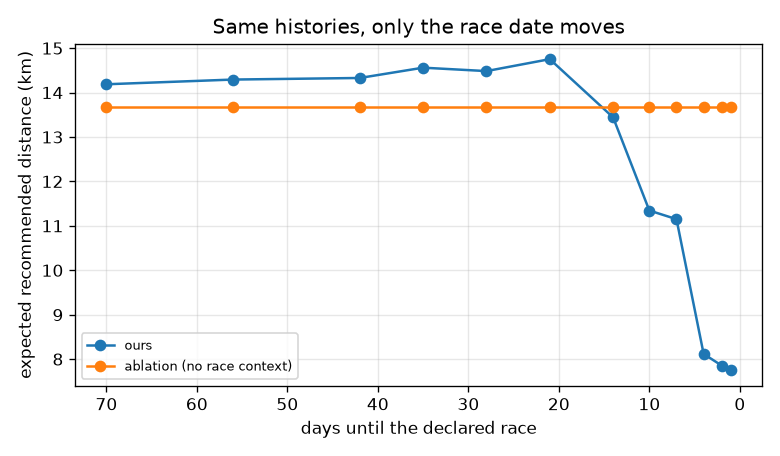
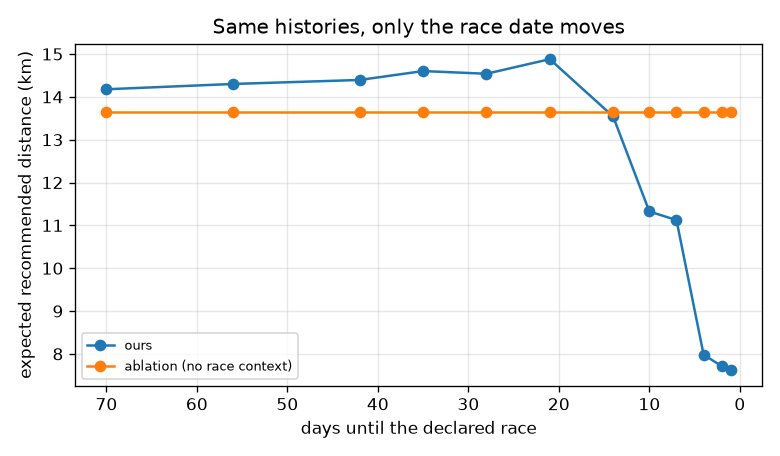
fix: address review on #7 and #8 (calendar gaps, export recomputation, report)
- load_grid rejects a calendar with a missing day, even when every athlete
  shares the gap (array positions are used as days).
- validate recomputes the pace reference, intensity, session type and race
  calendar from km, minutes and dates, and checks the shared pace rule.
  The weekly table it used to check no longer exists since the temporal
  re-scope.
- annotate_sessions and plausible_pace are shared helpers; the session
  catalogue's representative distances live in data.py, so the report no
  longer imports marathon.serving from the next PR.
- The race-date sweep draws one target per runner over 2,000 distinct
  runners and reports that count. Results regenerated; regression tests
  added for all of the above.

diff --git a/marathon/report.py b/marathon/report.py
@@ -12,10 +12,10 @@ import numpy as np
 import pandas as pd
 import torch
 
-from marathon.data import NUM_ITEMS, describe_item
+from marathon.data import DISTANCE_POINTS, INTENSITY_EDGES, NUM_ITEMS, describe_item
 from marathon.evaluate import PHASES, Baselines, per_target_metrics, target_ranks
 from marathon.model import ContextCrossAttentionRecommender
-from marathon.sequences import item_attributes, load_store
+from marathon.sequences import item_attributes, load_store, race_bucket
 from marathon.train import baseline_ranks, model_scores
 
 NAMES = {"full": "Context-aware Transformer (ours)", "no_race_context": "Ablation: same model without race context",
@@ -67,17 +67,25 @@ def plot_curves(reports, path):
 SWEEP_DAYS = [70, 56, 42, 35, 28, 21, 14, 10, 7, 4, 2, 1]
 
 
+def one_target_per_runner(store, targets, rng, sample):
+    """One random target per runner, for `sample` distinct runners, so every runner weighs the same."""
+    athletes = store.sessions["athlete"].to_numpy()[targets]
+    order = rng.permutation(len(targets))
+    _, first = np.unique(athletes[order], return_index=True)
+    per_runner = targets[order[first]]
+    return np.sort(rng.choice(per_runner, min(sample, len(per_runner)), replace=False))
+
+
 def race_date_sweep(models, store, targets, rng, sample=2000):
     """Counterfactual: keep each runner's history, move only the declared race date.
 
     For every target, the race is placed `days` after the target day and the race-calendar
     buckets of the history are shifted consistently. The output is the expected distance of
     the recommended session (softmax-weighted over the 66 types). A model without race context
-    must give the same value for every `days`.
+    must give the same value for every `days`. Each runner counts once: one random eligible
+    target is drawn per runner, then `sample` distinct runners are drawn.
     """
-    from marathon.sequences import race_bucket
-    from marathon.serving import DISTANCE_POINTS, INTENSITY_EDGES
-    chosen = np.sort(rng.choice(targets, min(sample, len(targets)), replace=False))
+    chosen = one_target_per_runner(store, targets, rng, sample)
     batch = store.batch(chosen)
     dates = store.sessions["date"].to_numpy("datetime64[D]")
     offsets = np.arange(-batch["items"].shape[1], 0)
@@ -96,6 +104,7 @@ def race_date_sweep(models, store, targets, rng, sample=2000):
             probabilities = torch.softmax(logits, dim=1).numpy()
             values.append(float((probabilities * km[None, :]).sum(axis=1).mean()))
         result[name] = dict(zip(SWEEP_DAYS, values))
+    result["runners"] = int(len(np.unique(store.sessions["athlete"].to_numpy()[chosen])))
     return result
 
 
@@ -105,6 +114,8 @@ def plot_sweep(sweep, path):
     import matplotlib.pyplot as plt
     figure, axis = plt.subplots(figsize=(6.5, 3.8))
     for name, values in sweep.items():
+        if name == "runners":
+            continue
         axis.plot(list(values), list(values.values()), marker="o", label=name)
     axis.invert_xaxis()
     axis.set(title="Same histories, only the race date moves", xlabel="days until the declared race",
@@ -231,7 +242,8 @@ def main():
                     for name in order], ["Method", "Coverage@10", "Mean popularity rank@10"])
     ours, ablation = sweep["ours"], sweep["ablation (no race context)"]
     lines += ["", "## Innovation check: moving only the race date", "",
-              f"2,000 test runners preparing a race (2 to 20 weeks out). Their histories are kept; only the declared race "
+              f"{sweep['runners']:,} distinct test runners preparing a race (2 to 20 weeks out), one session each. "
+              "Their histories are kept; only the declared race "
               f"date moves. Expected distance of the recommended session: {ours[70]:.1f} km with the race 70 days away, "
               f"{ours[14]:.1f} km at 14 days, {ours[2]:.1f} km at 2 days. The ablation stays at {ablation[70]:.1f} km "
               "whatever the date, as it must. The model learned to taper from data; no rule encodes it.", "",

diff --git a/marathon/data.py b/marathon/data.py
@@ -37,6 +37,11 @@ INTENSITY_LABELS = ["much faster", "faster", "slightly faster", "usual", "slight
 REFERENCE_DAYS = 28
 REFERENCE_MIN_RUNS = 3
 NUM_ITEMS = (len(DISTANCE_EDGES) + 1) * (len(INTENSITY_EDGES) + 1)
+# Representative distance (km) and pace ratio of each band, used to turn a session type into a
+# concrete session and to compute expected distances in the report.
+DISTANCE_POINTS = [3.0, 6.5, 9.0, 11.0, 13.5, 16.5, 19.5, 23.0, 27.5, 32.0, 37.0]
+INTENSITY_POINTS = [0.87, 0.925, 0.97, 1.01, 1.055, 1.11]
+assert len(DISTANCE_POINTS) == len(DISTANCE_EDGES) + 1 and len(INTENSITY_POINTS) == len(INTENSITY_EDGES) + 1
 
 
 def item_id(km, intensity):
@@ -69,10 +74,27 @@ def load_grid(path):
         raise ValueError("Expected exactly one row per athlete per day")
     if not (frame["datetime"].to_numpy().reshape(len(athletes), -1) == dates).all():
         raise ValueError("Every athlete must cover the same sorted calendar")
+    # Array positions are used as calendar days, so a date missing for everyone must fail too.
+    steps = np.diff(dates.astype("datetime64[D]")).astype(int)
+    if len(dates) and not (steps == 1).all():
+        raise ValueError("The calendar must contain consecutive days without gaps")
     distance = frame["distance"].to_numpy(np.float64).reshape(len(athletes), -1)
     duration = frame["duration"].to_numpy(np.float64).reshape(len(athletes), -1)
     meta = frame.iloc[::len(dates)][["athlete", "gender", "age_group", "country", "major"]].reset_index(drop=True)
     return meta, pd.DatetimeIndex(dates), distance, duration
+
+
+def plausible_pace(km, minutes):
+    """True where km and minutes are finite, positive and their pace lies in PACE_RANGE.
+
+    The single quality rule for a running day, shared by the training pipeline and the API.
+    """
+    km = np.asarray(km, dtype=float)
+    minutes = np.asarray(minutes, dtype=float)
+    valid = np.isfinite(km) & np.isfinite(minutes) & (km > 0) & (minutes > 0)
+    with np.errstate(divide="ignore", invalid="ignore"):
+        pace = np.where(valid, minutes / np.where(valid, km, 1), np.nan)
+    return valid & (pace >= PACE_RANGE[0]) & (pace <= PACE_RANGE[1])
 
 
 def clean_days(distance, duration):
@@ -80,9 +102,7 @@ def clean_days(distance, duration):
     distance, duration = distance.copy(), duration.copy()
     bad = ~np.isfinite(distance) | ~np.isfinite(duration) | (distance < 0) | (duration < 0)
     moving = (distance > 0) & ~bad
-    with np.errstate(divide="ignore", invalid="ignore"):
-        pace = np.where(moving, duration / np.where(moving, distance, 1), np.nan)
-    bad |= moving & ~((pace >= PACE_RANGE[0]) & (pace <= PACE_RANGE[1]))
+    bad |= moving & ~plausible_pace(distance, duration)
     bad |= (distance == 0) & (duration > 0)
     distance[bad] = 0
     duration[bad] = 0
@@ -116,7 +136,18 @@ def build_sessions(meta, dates, distance, duration, athletes):
     runner, day = np.nonzero(distance[rows] >= MIN_SESSION_KM)
     sessions = pd.DataFrame({"athlete": meta["athlete"].to_numpy()[rows][runner], "date": dates[day],
                              "km": distance[rows][runner, day], "minutes": duration[rows][runner, day]})
+    return annotate_sessions(sessions)
+
+
+def annotate_sessions(sessions):
+    """Add pace, the causal 28-day pace reference, intensity and session type.
+
+    Used to build the training data, to re-check the export in validate.py and to encode
+    histories in the API, so all three agree. Expects at most one session per runner and day,
+    each with at least MIN_SESSION_KM and a plausible pace.
+    """
     sessions = sessions.sort_values(["athlete", "date"], kind="stable").reset_index(drop=True)
+    sessions["date"] = pd.to_datetime(sessions["date"])
     sessions["pace"] = sessions["minutes"] / sessions["km"]
     # closed="left" excludes the session itself: the reference uses strictly earlier days only.
     reference = (sessions.set_index("date").groupby("athlete")["pace"]

diff --git a/tests/test_marathon_data.py b/tests/test_marathon_data.py
@@ -5,13 +5,15 @@ from pathlib import Path
 import numpy as np
 import pandas as pd
 
-from marathon.data import NUM_ITEMS, clean_days, describe_item, item_id, prepare
+from marathon.data import NUM_ITEMS, clean_days, describe_item, item_id, load_grid, plausible_pace, prepare
 from marathon.validate import validate
 
 
-def synthetic_grid(path):
+def synthetic_grid(path, skip_date=None):
     """Four runners over 2019. Runner 0 runs Boston and Berlin, runner 3 never has a race day."""
     dates = pd.date_range("2019-01-01", "2019-12-31")
+    if skip_date is not None:
+        dates = dates[dates != pd.Timestamp(skip_date)]
     rows = []
     for athlete in range(4):
         major = {0: "BOSTON 2019,BERLIN 2019", 3: "BERLIN 2019"}.get(athlete, "BERLIN 2019,LONDON 2017")
@@ -56,6 +58,33 @@ class MarathonDataTest(unittest.TestCase):
             self.assertEqual(runner.loc["2019-08-01", "split"], "validation")
             self.assertEqual(runner.loc["2019-09-02", "split"], "test")
             validate(output)
+
+    def test_a_date_missing_for_every_athlete_is_rejected(self):
+        with tempfile.TemporaryDirectory() as directory:
+            source = Path(directory) / "grid.parquet"
+            synthetic_grid(source, skip_date="2019-09-28")
+            with self.assertRaisesRegex(ValueError, "consecutive days"):
+                load_grid(source)
+
+    def test_validation_recomputes_derived_columns(self):
+        with tempfile.TemporaryDirectory() as directory:
+            source = Path(directory) / "grid.parquet"
+            synthetic_grid(source)
+            output = Path(directory) / "out"
+            prepare(source, output)
+            path = output / "sessions.parquet"
+            sessions = pd.read_parquet(path)
+            # Make one mid-season session slower without touching the derived columns:
+            # its later sessions' pace reference no longer matches the export.
+            row = sessions.index[(sessions.athlete == 1) & (sessions.date == pd.Timestamp("2019-02-02"))][0]
+            sessions.loc[row, "minutes"] = 70.0
+            sessions.to_parquet(path, index=False)
+            with self.assertRaisesRegex(ValueError, "does not match its recomputation"):
+                validate(output)
+
+    def test_shared_pace_rule(self):
+        self.assertEqual(plausible_pace([10, 1, 10, 0, 10], [50, 900, 20, 5, np.nan]).tolist(),
+                         [True, False, False, False, False])
 
     def test_item_ids_cover_the_catalogue(self):
         ids = item_id(np.array([1.0, 4.99, 5.0, 50.0, 50.0]), np.array([0.5, 1.0, 0.90, 0.5, 2.0]))

diff --git a/marathon/validate.py b/marathon/validate.py
@@ -4,9 +4,11 @@ import argparse
 import json
 from pathlib import Path
 
+import numpy as np
 import pandas as pd
 
-from marathon.data import NUM_ITEMS, RACES, SPLIT_STARTS, assign_split
+from marathon.data import (MIN_SESSION_KM, NUM_ITEMS, RACES, SPLIT_STARTS, add_race_calendar, annotate_sessions,
+                           assign_split, plausible_pace)
 
 
 def validate(directory):
@@ -36,6 +38,20 @@ def validate(directory):
         errors.append("race-day sessions do not match the race table")
     if len(sessions) != stats["sessions"] or len(races) != stats["labelled_races"]:
         errors.append("stats.json counts do not match the exports")
+    if not plausible_pace(sessions["km"], sessions["minutes"]).all() or (sessions["km"] < MIN_SESSION_KM).any():
+        errors.append("a session breaks the distance or pace quality rule")
+    # Recompute every derived column from the raw km and minutes, so a missing, extra or edited
+    # session shows up as a mismatch in the causal pace reference, session type or race calendar.
+    expected = add_race_calendar(annotate_sessions(sessions[["athlete", "date", "km", "minutes"]].copy()), races)
+    actual = sessions.sort_values(["athlete", "date"], kind="stable").reset_index(drop=True)
+    for column in ("reference_pace", "intensity", "days_to_race"):
+        if not np.allclose(actual[column], expected[column], equal_nan=True):
+            errors.append(f"{column} does not match its recomputation from km, minutes and dates")
+    for column in ("item", "is_race", "reference_missing"):
+        if not (actual[column].to_numpy() == expected[column].to_numpy()).all():
+            errors.append(f"{column} does not match its recomputation from km, minutes and dates")
+    if not actual["race_id"].fillna("").equals(expected["race_id"].fillna("")):
+        errors.append("race_id does not match the race calendar")
     if errors:
         raise ValueError("; ".join(errors))
     summary = {"verified_sessions": len(sessions), "verified_users": int(sessions["athlete"].nunique()),

diff --git a/tests/test_marathon_model.py b/tests/test_marathon_model.py
@@ -79,6 +79,25 @@ class ModelTest(unittest.TestCase):
             self.assertTrue(torch.isfinite(loss))
 
 
+class ReportTest(unittest.TestCase):
+    def test_race_date_sweep_counts_each_runner_once_and_ablation_is_flat(self):
+        from marathon.report import one_target_per_runner, race_date_sweep
+        store = SessionStore(synthetic_sessions())
+        targets = store.targets("test", min_history=2)
+        chosen = one_target_per_runner(store, targets, np.random.default_rng(0), sample=10)
+        athletes = store.sessions["athlete"].to_numpy()[chosen]
+        self.assertEqual(len(chosen), 2)
+        self.assertEqual(len(set(athletes)), 2)
+        torch.manual_seed(0)
+        models = {name: ContextCrossAttentionRecommender(NUM_ITEMS, item_attributes(), 32, dim=16,
+                                                         use_race_context=use).eval()
+                  for name, use in (("ours", True), ("ablation", False))}
+        sweep = race_date_sweep(models, store, targets, np.random.default_rng(0), sample=10)
+        self.assertEqual(sweep["runners"], 2)
+        self.assertEqual(len(set(sweep["ablation"].values())), 1)
+        self.assertGreater(len(set(sweep["ours"].values())), 1)
+
+
 class EvaluationTest(unittest.TestCase):
     def test_ties_never_favour_the_label(self):
         scores = np.array([[1.0, 1.0, 1.0], [0.0, 2.0, 1.0]])

diff --git a/MARATHON_README.md b/MARATHON_README.md
@@ -82,7 +82,7 @@ Two self-attention layers encode the last 32 sessions. Every candidate type then
 - **Sanity floor.** The model beats random and most-popular by a wide margin. It also beats personal popularity, the strongest baseline: NDCG@10 is +0.067, 95% interval [+0.066, +0.068].
 - **Not just popularity.** All 66 types appear in some top-10 list, against 15% of types for most-popular.
 - **Innovation.** The race context matters where it should. In the taper (race within 3 weeks), NDCG@10 rises from 0.267 to 0.304, +0.037 with 95% interval [+0.035, +0.039], and Recall@20 gains +0.060. It is neutral in peak and recovery weeks. It costs 0.009 NDCG@10 when no race is planned, so the overall NDCG@10 is unchanged; overall Recall@20 gains +0.005.
-- **Taper check.** With the same histories and only the race date moved, the expected recommended distance peaks at 14.8 km three weeks out, then falls to 7.9 km two days before the race. The ablation stays flat at 13.7 km. No rule encodes the taper: the model learned it from data.
+- **Taper check.** We take 2,000 distinct test runners, one session each, keep their histories and move only the race date. The expected recommended distance peaks at 14.9 km three weeks out, then falls to 7.7 km two days before the race. The ablation stays flat at 13.6 km. No rule encodes the taper: the model learned it from data.
 - **Learning curves.** Training and validation losses decrease together, with no divergence. Validation NDCG@10 was still rising slowly at epoch 6, so more epochs might help both models.
 
 Reproduce with `python -m marathon.train`, `python -m marathon.train --no-race-context` and `python -m marathon.report`. Allow about 1 hour per model on an 8-core laptop when nothing else is running.

diff --git a/results/marathon/MARATHON_RESULTS.md b/results/marathon/MARATHON_RESULTS.md
@@ -60,7 +60,7 @@ Coverage@10 is the share of the 66 types that appear in at least one top-10 list
 
 ## Innovation check: moving only the race date
 
-2,000 test runners preparing a race (2 to 20 weeks out). Their histories are kept; only the declared race date moves. Expected distance of the recommended session: 14.2 km with the race 70 days away, 13.4 km at 14 days, 7.9 km at 2 days. The ablation stays at 13.7 km whatever the date, as it must. The model learned to taper from data; no rule encodes it.
+2,000 distinct test runners preparing a race (2 to 20 weeks out), one session each. Their histories are kept; only the declared race date moves. Expected distance of the recommended session: 14.2 km with the race 70 days away, 13.5 km at 14 days, 7.7 km at 2 days. The ablation stays at 13.6 km whatever the date, as it must. The model learned to taper from data; no rule encodes it.
 
 ![Race-date sweep](race_date_sweep.png)
 
